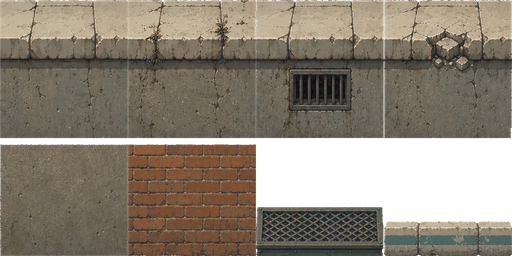
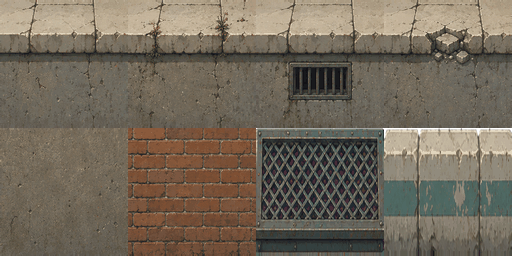
fix: 하늘 오려내기·타일 자르기·초록 스필 세 가지 전처리 버그를 고침
배경과 타일이 망가져 보이던 것이 전부 전처리 문제였다. 그림은 멀쩡했다.

- strip_sky 가 열마다 위에서 아래로만 훑어서, 나무에 가로막힌 하늘이 흰 덩어리로
  남았다. 윗변에 닿은 하늘 덩어리 전체를 따라가도록 flood 를 넣는다. numpy 만으로
  구간 채우기를 가로·세로 번갈아 반복하며, scipy 연결 성분과 같은 답을 낸다.
  남은 흰 픽셀 15% -> 1.7%
- 타일 시트는 칸 사이가 20px 마젠타로 벌어져 있는데 4등분해서 그 여백을 물고
  들어왔다. 여백을 찾아 그 사이만 잘라 쓴다. 이음매 불연속 4.6배 -> 1.1배,
  남은 마젠타 0px
- 크로마키 초록이 번진 것을 despill 로 걷어낸다. 반투명하고 색이 없는 김·물보라·
  안개에서 특히 심했다

네 스테이지를 브라우저로 확인했다. 콘솔 오류 없음. 산 스테이지가 흰 기둥 숲에서
밤 숲으로 돌아왔고, 들판 지면의 보라색 세로줄이 사라졌다.

Claude-Session: https://claude.ai/code/session_015t45Yn1V7GjaakDp9XGyFC

diff --git a/scripts/prepare_assets.py b/scripts/prepare_assets.py
@@ -77,12 +77,50 @@ def fit(im, max_w=None, max_h=None):
 # ---------------------------------------------------------------- 배경 제거
 
 
+def _fill_runs(mask, seed, axis):
+    """축을 따라 mask 의 연속 구간마다, 그 안에 seed 가 하나라도 있으면 구간 전체를 채운다."""
+    m = mask if axis == 1 else mask.T
+    sd = seed if axis == 1 else seed.T
+    w = m.shape[1]
+    idx = np.arange(w)[None, :]
+    hit = (sd & m).astype(np.int32)
+
+    def sweep(mm, hh):
+        c = np.cumsum(hh, axis=1)
+        prev = np.maximum.accumulate(np.where(mm, -1, idx), axis=1)
+        base = np.where(prev >= 0, np.take_along_axis(c, np.maximum(prev, 0), axis=1), 0)
+        return (c - base) > 0
+
+    filled = sweep(m, hit) | sweep(m[:, ::-1], hit[:, ::-1])[:, ::-1]
+    out = m & filled
+    return out if axis == 1 else out.T
+
+
+def flood(mask, seed, rounds=256):
+    """seed 에서 출발해 mask 안에서 이어진 곳을 전부 찾는다.
+
+    가로 한 번, 세로 한 번씩 구간을 통째로 채우기를 반복한다. 한 번에 한 칸씩
+    번지는 방식과 달리 구간 끝까지 단번에 가므로 몇 바퀴면 끝난다.
+    """
+    keep = seed & mask
+    for _ in range(rounds):
+        before = int(keep.sum())
+        keep = _fill_runs(mask, keep, 1)
+        keep = _fill_runs(mask, keep, 0)
+        if int(keep.sum()) == before:
+            break
+    return keep
+
+
 def strip_sky(im, bright=232, sat=26, feather=6):
     """
-    위쪽 하늘/체커보드를 지운다.
+    위쪽 하늘을 지운다.
 
-    각 열을 위에서 아래로 훑어 '밝고 채도 낮은' 픽셀이 이어지는 동안만 지운다.
-    건물 안쪽의 밝은 창문은 위와 이어져 있지 않으므로 살아남는다.
+    윗변에 닿아 있는 '밝고 채도 낮은' 덩어리를 통째로 지운다. 열 단위로 위에서
+    아래로만 훑으면 **나무나 풀에 가로막힌 하늘이 흰 덩어리로 남는다.** 나무 사이의
+    하늘은 나무 꼭대기를 돌아 위쪽 하늘과 이어져 있으므로, 이어진 곳을 따라가야 한다.
+
+    건물 안쪽의 밝은 창문은 하늘과 이어져 있지 않으므로 살아남는다.
     """
     a = np.asarray(im).astype(np.int16)
     rgb = a[:, :, :3]
@@ -91,9 +129,12 @@ def strip_sky(im, bright=232, sat=26, feather=6):
     mx = rgb.max(axis=2)
     mn = rgb.min(axis=2)
     skyish = (mx >= bright) & ((mx - mn) <= sat)
+    # 이미 투명한 곳도 하늘로 친다. 그래야 한 번 지운 뒤 다시 돌려도 이어진다
+    skyish |= a[:, :, 3] <= 16
 
-    # 열마다 위에서부터 연속인 구간만 True 로 남긴다
-    keep = np.cumprod(skyish, axis=0).astype(bool)
+    seed = np.zeros_like(skyish)
+    seed[0, :] = True
+    keep = flood(skyish, seed)
 
     alpha = a[:, :, 3].copy()
     alpha[keep] = 0
@@ -236,6 +277,71 @@ def strip_grid_lines(im, light=190, ratio=0.85):
     for idx in np.where(lightish.mean(axis=1) > ratio)[0]:
         out[idx, :, :3] = bg
     return Image.fromarray(out)
+
+
+def magenta_bands(im, count, axis, min_run=4):
+    """마젠타 여백으로 나뉜 칸의 경계를 찾는다.
+
+    타일 시트는 칸이 맞닿아 있지 않고 **칸 사이가 마젠타로 벌어져** 나온다.
+    균등하게 나누면 그 여백을 반씩 물고 들어와, 타일을 이어 붙일 때마다
+    보라색 세로줄이 선다.
+
+    칸 수가 기대와 다르면 None 을 돌려주고, 부르는 쪽이 균등 분할로 돌아간다.
+    """
+    a = np.asarray(im.convert('RGB')).astype(np.int16)
+    r, g, b = a[:, :, 0], a[:, :, 1], a[:, :, 2]
+    mag = (r > 150) & (b > 150) & (g < 110)
+    frac = mag.mean(axis=0 if axis == 1 else 1)
+
+    content = frac < 0.7
+    bands = []
+    start = None
+    for i, v in enumerate(content):
+        if v and start is None:
+            start = i
+        elif not v and start is not None:
+            if i - start >= min_run:
+                bands.append((start, i))
+            start = None
+    if start is not None and len(content) - start >= min_run:
+        bands.append((start, len(content)))
+
+    if len(bands) != count:
+        return None
+    # 여백과 맞닿은 한두 줄에는 마젠타가 번져 있다. 안으로 조금 들어가서 쓴다
+    pad = 2
+    return [(lo + pad, hi - pad) for lo, hi in bands if hi - lo > 4 * pad]
+
+
+def clamp_border(im, n=2):
+    """가장자리 n 줄을 바로 안쪽 줄로 덮는다 (크기는 그대로)."""
+    if n <= 0:
+        return im
+    a = np.asarray(im).copy()
+    if a.shape[0] <= 2 * n or a.shape[1] <= 2 * n:
+        return im
+    a[:, :n] = a[:, n:n + 1]
+    a[:, -n:] = a[:, -n - 1:-n]
+    a[:n, :] = a[n:n + 1, :]
+    a[-n:, :] = a[-n - 1:-n, :]
+    return Image.fromarray(a)
+
+
+def despill(im):
+    """크로마키 배경색이 그림 안으로 번진 것을 걷어낸다.
+
+    김·물보라·안개처럼 **반투명하고 색이 없는 것**을 초록 배경에서 오려 내면, 배경색이
+    그림 속으로 스며 형광 초록 얼룩이 남는다. 피사체에 색이 없어 "배경인지 그림인지"
+    가릴 기준이 없기 때문이다.
+
+    초록이 빨강·파랑보다 튀는 픽셀에서 초록을 둘 중 높은 쪽까지 끌어내린다. 원래
+    흰색·회색이던 것은 제 색으로 돌아오고, 진짜 초록(풀·나뭇잎)은 빨강이나 파랑이
+    함께 높아서 거의 건드려지지 않는다.
+    """
+    a = np.asarray(im.convert('RGBA')).astype(np.int16)
+    cap = np.maximum(a[:, :, 0], a[:, :, 2])
+    a[:, :, 1] = np.minimum(a[:, :, 1], cap)
+    return Image.fromarray(a.astype(np.uint8), 'RGBA')
 
 
 def clean_background(im, tol=80):
@@ -435,6 +541,8 @@ def do_sprites():
         if looks_magenta(im):
             im = strip_chroma(im)
 
+        im = despill(im)
+
         # 시트 전체 기준으로 아래 여백을 잘라 낸다.
         # 프레임마다 자르면 위치가 흔들리므로 8장을 통째로 본다.
         alpha = np.asarray(im)[:, :, 3]
@@ -486,6 +594,14 @@ def do_atlases():
         cw = src_im.width / float(cols)
         ch = src_im.height / float(rows)
 
+        # 타일은 칸 사이가 마젠타로 벌어져 나오는 일이 잦다. 여백을 찾아 그 사이만 쓴다
+        xb = yb = None
+        if anchor == 'stretch':
+            xb = magenta_bands(src_im, cols, 1)
+            yb = magenta_bands(src_im, rows, 0)
+            if xb and yb:
+                log('아틀라스 %s  칸 사이 여백을 찾아 잘라 낸다' % rel)
+
         # 격자 규격이 안 맞는 옛 시트를 잘못 자르지 않도록 칸 모양을 확인한다.
         #
         # 생성기가 칸을 정사각으로 안 그려 준다. 4x2 를 시켜도 세로로 긴 칸 여덟 개로
@@ -505,7 +621,13 @@ def do_atlases():
 
         for r in range(rows):
             for c in range(cols):
-                box = [int(c * cw), int(r * ch), int((c + 1) * cw), int((r + 1) * ch)]
+                if xb and yb:
+                    box = [xb[c][0], yb[r][0], xb[c][1], yb[r][1]]
+                else:
+                    # 칸 폭이 딱 떨어지지 않는 경우가 많다 (1774 / 4 = 443.5).
+                    # 내림하면 칸마다 경계가 최대 1px 씩 밀려 옆 칸 픽셀이 딸려 온다
+                    box = [int(round(c * cw)), int(round(r * ch)),
+                           int(round((c + 1) * cw)), int(round((r + 1) * ch))]
                 if anchor != 'stretch':
                     # 생성기가 칸 사이에 흰 격자선을 그려 주는 일이 있다. 그 선이 남으면
                     # 여백을 자를 때 칸 전체가 물건으로 잡혀 소품이 조그맣게 앉는다.
@@ -515,7 +637,13 @@ def do_atlases():
                 piece = src_im.crop(tuple(box))
 
                 if anchor == 'stretch':
-                    # 타일은 칸을 꽉 채운다. 마젠타 여백만 걷어내고 늘린다
+                    # 타일은 칸을 꽉 채운다. 마젠타 여백만 걷어내고 늘린다.
+                    #
+                    # 칸 경계의 몇 줄은 **잘라내지 않고 안쪽 픽셀로 덮는다.** 생성기가
+                    # 칸 사이에 얇은 선을 그어 두는데, 그 선을 그대로 두면 타일을 이어
+                    # 붙일 때마다 세로줄이 서고, 잘라내면 무늬의 주기가 어긋나 이음매가
+                    # 더 벌어진다. 크기를 지킨 채 테두리만 덮으면 둘 다 피한다.
+                    piece = clamp_border(piece, max(2, int(min(cw, ch) * 0.008)))
                     if looks_magenta(piece):
                         piece = trim(strip_chroma(piece))
                     piece = piece.resize((cell, cell), Image.LANCZOS)

diff --git a/.docs/asset-review.md b/.docs/asset-review.md
@@ -234,3 +234,53 @@
 것으로 보인다. 다른 세 스테이지는 멀쩡하다.
 
 - `assets-images2.md` 7절대로 **하늘만 마젠타로** 칠한 산 배경 3장을 다시 뽑는 게 정석이다.
+
+## 전체 재검수 — 재생성이 필요한 것은 없었다
+
+배경·타일·컷신·UI·스프라이트를 전부 다시 재 보고 눈으로 확인했다.
+눈에 띄게 망가져 보이던 것이 **셋 다 전처리 버그**였고, 그림 자체는 멀쩡했다.
+
+### 1. 산·해안 배경의 흰 줄무늬 — 하늘을 열 단위로만 지우고 있었다
+
+`strip_sky` 가 **열마다 위에서 아래로** 훑으며 밝고 채도 낮은 픽셀이 이어지는 동안만
+지웠다. 그래서 나무나 풀에 가로막힌 하늘이 **흰 덩어리로 남았다.** 산 스테이지가
+흰 기둥 숲처럼 보이던 원인이다.
+
+나무 사이의 하늘은 나무 꼭대기를 **돌아서** 위쪽 하늘과 이어져 있다. 이어진 곳을
+따라가야 지워진다.
+
+- **조치**: 윗변에 닿은 하늘 덩어리 전체를 찾아 지운다 (`flood`).
+  가로 한 번, 세로 한 번씩 구간을 통째로 채우기를 반복하는 방식이라 numpy 만으로 된다.
+  scipy 의 연결 성분과 같은 답을 내는지 확인해 두었다.
+- 남은 흰 픽셀이 15% → 1.7% 로 줄었다. 나무에 완전히 둘러싸여 하늘과 끊긴 자투리만 남는다.
+
+### 2. 타일 이음매의 보라색 세로줄 — 칸 사이 여백을 물고 들어왔다
+
+타일 시트는 칸이 **맞닿아 있지 않다.** 칸 사이가 20px 남짓 마젠타로 벌어져 나온다
+(1774px 시트에 실제 타일은 417px씩). 이걸 4등분하면 여백을 반씩 물고 들어오는데,
+칸 대비 마젠타 비율이 낮아 `looks_magenta` 도 걸러 내지 못했다. 그대로 늘려 붙이니
+타일마다 보라색 세로줄이 섰다.
+
+- **조치**: 마젠타 여백을 찾아 그 사이만 잘라 쓴다 (`magenta_bands`).
+  칸 수가 기대와 다르면 예전처럼 균등 분할로 돌아간다. 여백과 맞닿은 두 줄은 마젠타가
+  번져 있어 안으로 들어가서 쓴다.
+- 이음매 불연속이 내부 잡음의 4.6배 → 1.1배로 떨어졌다. 남은 마젠타 0px.
+  **타일 그림 자체는 원래 이어지는 그림이었다.**
+
+### 3. 8프레임 시트의 형광 초록 — 크로마키가 번진 것
+
+`despill` 을 `do_sprites` 에 넣었다. 자세한 것은 [assets-actors.md](assets-actors.md) 7절.
+기존 강아지·주인 스프라이트에도 초록 잔여물이 0.3% 남아 있어 같이 걷혔다.
+
+### 멀쩡한 것
+
+- 소품 4장, 집 안 부품, 컷신 2장, 실내 배경 2장, UI 18개 — 손댈 것 없다.
+- 도시·들판 배경, 하늘 9장 — 멀쩡하다.
+- 타일 6번 칸이 "칸 높이의 1/3짜리 얇은 발판" 이 아니라 꽉 찬 정사각으로 나왔지만,
+  게임이 `tileSprite` 로 **잘라서** 쓰므로 위 18px 만 보인다. 다시 뽑을 것 없다.
+
+### 남은 것 — 에셋이 아니라 배치 문제
+
+들판 지면이 세로로 두 칸 이상 쌓이면 **잔디 윗면이 중간에 한 번 더 나온다.**
+`createGround` 가 사각형 높이만큼 같은 프레임을 반복해서다. 윗면(0번)은 한 줄만 깔고
+그 아래는 채움(4번)을 쓰도록 나눠야 한다. 타일 그림 문제가 아니다.
